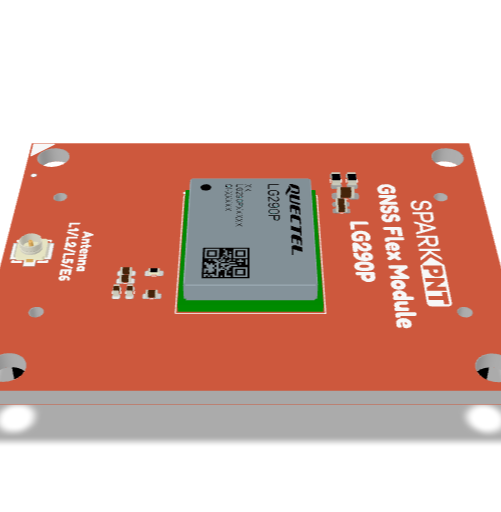
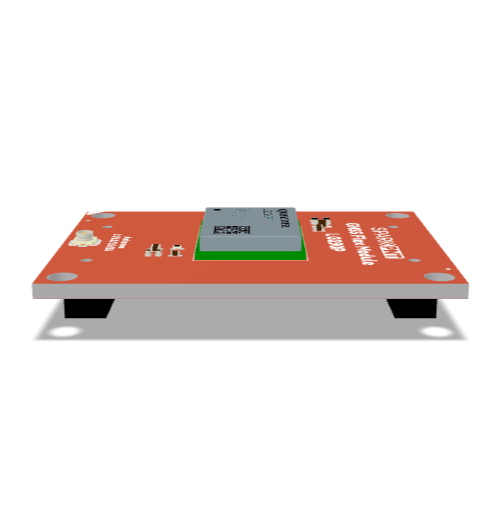
Fix 3D models
Update camera angle for 3D models to be the same across the entire doc
Update camera alignment/target so that boards line up evenly
Restore/update 3D model poster images
Update model-viewer to v4.0.0
Disable navigation.instant mkdocs feature, which was causing the embedded model-viewer library to fail

diff --git a/docs/modules.md b/docs/modules.md
@@ -1,7 +1,7 @@
 # All Modules
 
 <!-- Import the component -->
-<script type="module" src="https://ajax.googleapis.com/ajax/libs/model-viewer/3.5.0/model-viewer.min.js"></script>
+<script type="module" src="https://ajax.googleapis.com/ajax/libs/model-viewer/4.0.0/model-viewer.min.js"></script>
 
 
 <div class="grid cards" style="grid-template-columns: repeat(auto-fit,minmax(8rem,1fr));" markdown>
@@ -10,7 +10,7 @@
 
 	---
 
-	<model-viewer src="../SparkPNT_GNSS_Flex_Module_mosaic-X5/assets/3d_model/web_model.glb" camera-controls poster="../SparkPNT_GNSS_Flex_Module_mosaic-X5/assets/3d_model/poster.png" tone-mapping="neutral" shadow-intensity="2" shadow-softness="0.2" camera-orbit="0deg 50deg 0.103m" field-of-view="25.11deg" style="width: 100%; height: 250px;">
+	<model-viewer src="../SparkPNT_GNSS_Flex_Module_mosaic-X5/assets/3d_model/web_model.glb" camera-controls poster="../SparkPNT_GNSS_Flex_Module_mosaic-X5/assets/3d_model/poster.png" tone-mapping="neutral" shadow-intensity="2" shadow-softness="0.2" camera-orbit="0deg 75deg 0.103m" field-of-view="25.11deg" style="width: 100%; height: 250px;">
 	</model-viewer>
 
 	<article style="text-align: center;" markdown>
@@ -25,7 +25,7 @@
 
 	---
 
-	<model-viewer src="../SparkPNT_GNSS_Flex_Module_LG290P/assets/3d_model/web_model.glb" camera-controls poster="../SparkPNT_GNSS_Flex_Module_LG290P/assets/3d_model/poster.png" tone-mapping="neutral" shadow-intensity="2" shadow-softness="0.2" camera-orbit="0deg 50deg 0.103m" field-of-view="25.11deg" style="width: 100%; height: 250px;">
+	<model-viewer src="../SparkPNT_GNSS_Flex_Module_LG290P/assets/3d_model/web_model.glb" camera-controls poster="../SparkPNT_GNSS_Flex_Module_LG290P/assets/3d_model/poster.png" tone-mapping="neutral" shadow-intensity="2" shadow-softness="0.2" camera-orbit="0deg 75deg 0.103m" field-of-view="25.11deg" camera-target="0m 0.8mm 0m" style="width: 100%; height: 250px;">
 	</model-viewer>
 
 	<article style="text-align: center;" markdown>
@@ -40,7 +40,7 @@
 
 	---
 
-	<model-viewer src="../SparkPNT_GNSS_Flex_Module_DAN-F10N/assets/3d_model/web_model.glb" camera-controls poster="../SparkPNT_GNSS_Flex_Module_DAN-F10N/assets/3d_model/poster.png" tone-mapping="neutral" shadow-intensity="2" shadow-softness="0.2" camera-orbit="90deg 50deg 0.103m" field-of-view="25.11deg" style="width: 100%; height: 250px;">
+	<model-viewer src="../SparkPNT_GNSS_Flex_Module_DAN-F10N/assets/3d_model/web_model.glb" camera-controls poster="../SparkPNT_GNSS_Flex_Module_DAN-F10N/assets/3d_model/poster.png" tone-mapping="neutral" shadow-intensity="2" shadow-softness="0.2" camera-orbit="90deg 75deg 0.103m" field-of-view="25.11deg" camera-target="0m 0.8mm 0m" style="width: 100%; height: 250px;">
 	</model-viewer>
 
 	<article style="text-align: center;" markdown>

diff --git a/docs/carriers.md b/docs/carriers.md
@@ -1,7 +1,7 @@
 # All Boards
 
 <!-- Import the component -->
-<script type="module" src="https://ajax.googleapis.com/ajax/libs/model-viewer/3.5.0/model-viewer.min.js"></script>
+<script type="module" src="https://ajax.googleapis.com/ajax/libs/model-viewer/4.0.0/model-viewer.min.js"></script>
 
 
 <div class="grid cards" style="grid-template-columns: repeat(auto-fit,minmax(8rem,1fr));" markdown>

diff --git a/flex_boards/SparkPNT_GNSS_Flex_Module_DAN-F10N/docs/hardware_overview.md b/flex_boards/SparkPNT_GNSS_Flex_Module_DAN-F10N/docs/hardware_overview.md
@@ -43,7 +43,7 @@
 ## :material-folder-cog: Design Files
 
 <!-- Import the component -->
-<script type="module" src="https://ajax.googleapis.com/ajax/libs/model-viewer/3.5.0/model-viewer.min.js"></script>
+<script type="module" src="https://ajax.googleapis.com/ajax/libs/model-viewer/4.0.0/model-viewer.min.js"></script>
 
 
 <div class="grid cards desc" markdown>

diff --git a/flex_boards/SparkPNT_GNSS_Flex_Module_LG290P/docs/hardware_overview.md b/flex_boards/SparkPNT_GNSS_Flex_Module_LG290P/docs/hardware_overview.md
@@ -40,7 +40,7 @@
 ## :material-folder-cog: Design Files
 
 <!-- Import the component -->
-<script type="module" src="https://ajax.googleapis.com/ajax/libs/model-viewer/3.5.0/model-viewer.min.js"></script>
+<script type="module" src="https://ajax.googleapis.com/ajax/libs/model-viewer/4.0.0/model-viewer.min.js"></script>
 
 
 <div class="grid cards desc" markdown>

diff --git a/flex_boards/SparkPNT_GNSS_Flex_Module_mosaic-X5/docs/hardware_overview.md b/flex_boards/SparkPNT_GNSS_Flex_Module_mosaic-X5/docs/hardware_overview.md
@@ -258,7 +258,7 @@
 ## Design Files
 
 <!-- Import the component -->
-<script type="module" src="https://ajax.googleapis.com/ajax/libs/model-viewer/3.5.0/model-viewer.min.js"></script>
+<script type="module" src="https://ajax.googleapis.com/ajax/libs/model-viewer/4.0.0/model-viewer.min.js"></script>
 
 
 <div class="grid cards desc" markdown>

diff --git a/docs/system_overview.md b/docs/system_overview.md
@@ -1,5 +1,5 @@
 <!-- Import the component -->
-<script type="module" src="https://ajax.googleapis.com/ajax/libs/model-viewer/3.5.0/model-viewer.min.js"></script>
+<script type="module" src="https://ajax.googleapis.com/ajax/libs/model-viewer/4.0.0/model-viewer.min.js"></script>
 
 
 ## GNSS Flex System
